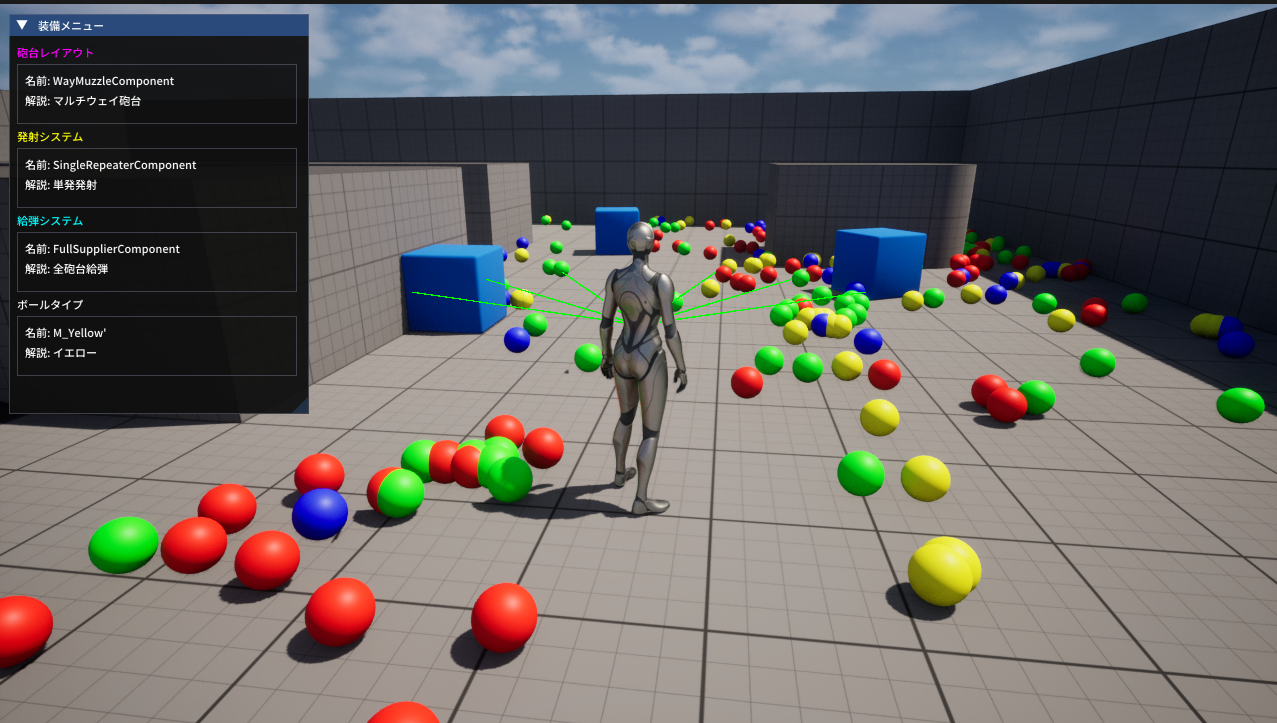
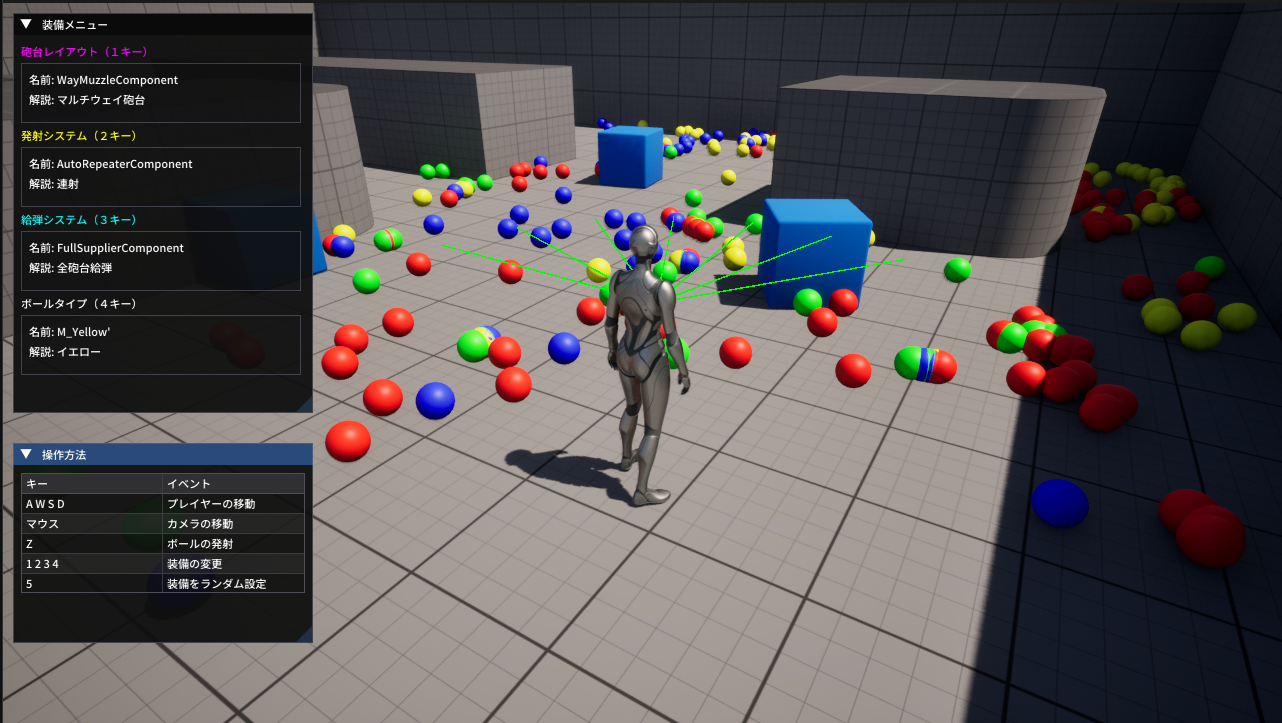
操作方法ウィンドウを追加しました。

diff --git a/Source/ColorBall/Private/EquipActor.cpp b/Source/ColorBall/Private/EquipActor.cpp
@@ -181,7 +181,7 @@ void AEquipActor::ImGuiTick()
 	ImGui::Begin("装備メニュー");
 
 	{
-		const FString Title = TEXT("砲台レイアウト");
+		const FString Title = TEXT("砲台レイアウト（１キー）");
 		ImGui::TextColored(ImVec4(1.0f, 0.0f, 1.0f, 1.0f), TCHAR_TO_UTF8(*Title));
 		ImGui::BeginChild(TCHAR_TO_UTF8(*Title), ImVec2(280, 60), true);
 		const auto& EquipItems = SelectableEquips[static_cast<int32>(EEquipIndex::Muzzle)];
@@ -191,7 +191,7 @@ void AEquipActor::ImGuiTick()
 	}
 
 	{
-		const FString Title = TEXT("発射システム");
+		const FString Title = TEXT("発射システム（２キー）");
 		ImGui::TextColored(ImVec4(1.0f, 1.0f, 0.0f, 1.0f), TCHAR_TO_UTF8(*Title));
 		ImGui::BeginChild(TCHAR_TO_UTF8(*Title), ImVec2(280, 60), true);
 		const auto& EquipItems = SelectableEquips[static_cast<int32>(EEquipIndex::Repeater)];
@@ -201,7 +201,7 @@ void AEquipActor::ImGuiTick()
 	}
 
 	{
-		const FString Title = TEXT("給弾システム");
+		const FString Title = TEXT("給弾システム（３キー）");
 		ImGui::TextColored(ImVec4(0.0f, 1.0f, 1.0f, 1.0f), TCHAR_TO_UTF8(*Title));
 		ImGui::BeginChild(TCHAR_TO_UTF8(*Title), ImVec2(280, 60), true);
 		const auto& EquipItems = SelectableEquips[static_cast<int32>(EEquipIndex::Supplier)];
@@ -211,13 +211,60 @@ void AEquipActor::ImGuiTick()
 	}
 
 	{
-		const FString Title = TEXT("ボールタイプ");
+		const FString Title = TEXT("ボールタイプ（４キー）");
 		ImGui::TextColored(ImVec4(1.0f, 1.0f, 1.0f, 1.0f), TCHAR_TO_UTF8(*Title));
 		ImGui::BeginChild(TCHAR_TO_UTF8(*Title), ImVec2(280, 60), true);
 		const auto& EquipItems = SelectableEquips[static_cast<int32>(EEquipIndex::Material)];
 		ImGui::Text("名前: %s", TCHAR_TO_UTF8(*EquipItems.Items[EquipItems.CurrentIndex].Name));
 		ImGui::Text("解説: %s", TCHAR_TO_UTF8(*EquipItems.Items[EquipItems.CurrentIndex].Explain));
 		ImGui::EndChild();
+	}
+	ImGui::End();
+
+
+	// ImGuiウィンドウサイズを一度だけ設定
+	ImGui::SetNextWindowSize(ImVec2(300, 200), ImGuiCond_Once);
+	ImGui::SetNextWindowPos(ImVec2(10, 440), ImGuiCond_Once);
+
+	ImGui::Begin("操作方法");
+
+	if (ImGui::BeginTable("Table1", 2, ImGuiTableFlags_Borders | ImGuiTableFlags_RowBg))
+	{
+		ImGui::TableSetupColumn("キー");
+		ImGui::TableSetupColumn("イベント");
+		ImGui::TableHeadersRow();
+
+		ImGui::TableNextRow();
+		ImGui::TableSetColumnIndex(0);
+		ImGui::Text("A W S D");
+		ImGui::TableSetColumnIndex(1);
+		ImGui::Text("プレイヤーの移動");
+
+		ImGui::TableNextRow();
+		ImGui::TableSetColumnIndex(0);
+		ImGui::Text("マウス");
+		ImGui::TableSetColumnIndex(1);
+		ImGui::Text("カメラの移動");
+
+		ImGui::TableNextRow();
+		ImGui::TableSetColumnIndex(0);
+		ImGui::Text("Z");
+		ImGui::TableSetColumnIndex(1);
+		ImGui::Text("ボールの発射");
+
+		ImGui::TableNextRow();
+		ImGui::TableSetColumnIndex(0);
+		ImGui::Text("1 2 3 4");
+		ImGui::TableSetColumnIndex(1);
+		ImGui::Text("装備の変更");
+
+		ImGui::TableNextRow();
+		ImGui::TableSetColumnIndex(0);
+		ImGui::Text("5");
+		ImGui::TableSetColumnIndex(1);
+		ImGui::Text("装備をランダム設定");
+
+		ImGui::EndTable();
 	}
 	ImGui::End();
 }
